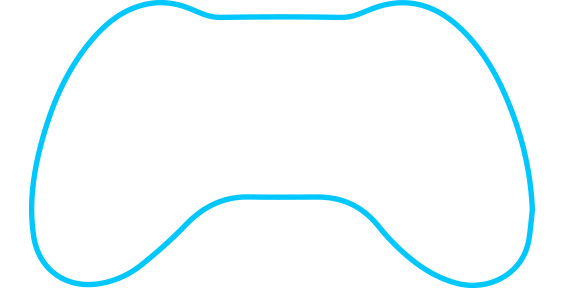
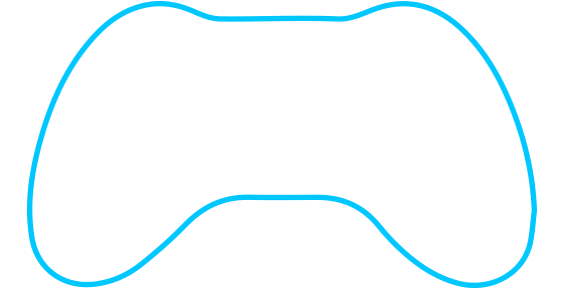
- Added trigger rumble effect to controller preview.

diff --git a/DirectXInput/WindowMain.xaml b/DirectXInput/WindowMain.xaml
@@ -152,7 +152,9 @@
                             </Grid.Background>
 
                             <!-- Preview -->
-                            <Image Name="img_ControllerPreview_Rumble" Source="pack://siteoforigin:,,,/Assets/Default/Controller/ControllerRumble.png" Visibility="Collapsed"/>
+                            <Image Name="img_ControllerPreview_ControllerRumble" Source="pack://siteoforigin:,,,/Assets/Default/Controller/ControllerRumble.png" Visibility="Collapsed"/>
+                            <Image Name="img_ControllerPreview_TriggerRumbleLeft" Source="pack://siteoforigin:,,,/Assets/Default/Controller/TriggerRumbleLeft.png" Visibility="Collapsed"/>
+                            <Image Name="img_ControllerPreview_TriggerRumbleRight" Source="pack://siteoforigin:,,,/Assets/Default/Controller/TriggerRumbleRight.png" Visibility="Collapsed"/>
 
                             <Image Name="img_ControllerPreview_ButtonA" Source="pack://siteoforigin:,,,/Assets/Default/Controller/ButtonPress.png" Width="25" Height="25" Margin="370,109,105,121"/>
                             <Image Name="img_ControllerPreview_ButtonB" Source="pack://siteoforigin:,,,/Assets/Default/Controller/ButtonPress.png" Width="25" Height="25" Margin="394,85,81,145"/>

diff --git a/DirectXInput/ControllerPreview.cs b/DirectXInput/ControllerPreview.cs
@@ -12,7 +12,7 @@ namespace DirectXInput
     public partial class WindowMain
     {
         //Update interface controller rumble preview
-        void UpdateControllerPreviewRumble(ControllerStatus Controller, int controllerRumbleHeavy, int controllerRumbleLight)
+        void UpdateControllerPreviewRumble(ControllerStatus Controller, int controllerRumbleHeavy, int controllerRumbleLight, int triggerRumbleLeft, int triggerRumbleRight)
         {
             try
             {
@@ -23,11 +23,27 @@ namespace DirectXInput
                     {
                         if (controllerRumbleHeavy > 0 || controllerRumbleLight > 0)
                         {
-                            img_ControllerPreview_Rumble.Visibility = Visibility.Visible;
+                            img_ControllerPreview_ControllerRumble.Visibility = Visibility.Visible;
                         }
                         else
                         {
-                            img_ControllerPreview_Rumble.Visibility = Visibility.Collapsed;
+                            img_ControllerPreview_ControllerRumble.Visibility = Visibility.Collapsed;
+                        }
+                        if (triggerRumbleLeft > 0)
+                        {
+                            img_ControllerPreview_TriggerRumbleLeft.Visibility = Visibility.Visible;
+                        }
+                        else
+                        {
+                            img_ControllerPreview_TriggerRumbleLeft.Visibility = Visibility.Collapsed;
+                        }
+                        if (triggerRumbleRight > 0)
+                        {
+                            img_ControllerPreview_TriggerRumbleRight.Visibility = Visibility.Visible;
+                        }
+                        else
+                        {
+                            img_ControllerPreview_TriggerRumbleRight.Visibility = Visibility.Collapsed;
                         }
                     });
                 }

diff --git a/DirectXInput/OutputController.cs b/DirectXInput/OutputController.cs
@@ -1,9 +1,6 @@
-using ArnoldVinkCode;
-using System;
+using System;
 using System.Diagnostics;
 using System.Threading.Tasks;
-using System.Windows;
-using static ArnoldVinkCode.AVActions;
 using static DirectXInput.AppVariables;
 using static LibraryShared.Classes;
 using static LibraryShared.CRC32;
@@ -177,7 +174,7 @@ namespace DirectXInput
                 }
 
                 //Update interface controller rumble preview
-                UpdateControllerPreviewRumble(Controller, controllerRumbleHeavy, controllerRumbleLight);
+                UpdateControllerPreviewRumble(Controller, controllerRumbleHeavy, controllerRumbleLight, triggerRumbleHighest, triggerRumbleHighest);
 
                 //Check which controller is connected
                 if (Controller.SupportedCurrent.CodeName == "SonyDualSense5" && Controller.Details.Wireless)
